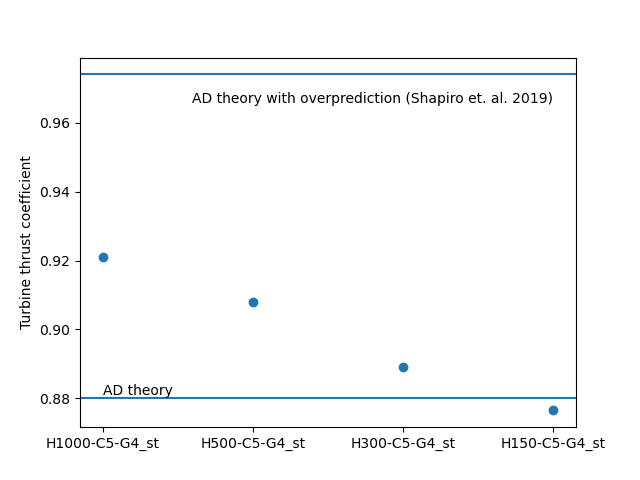
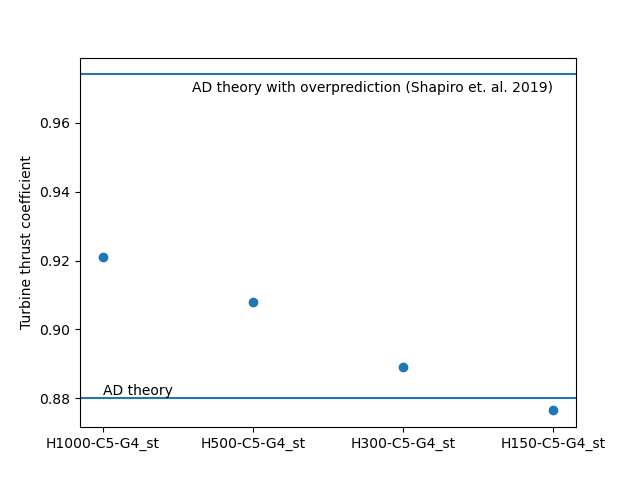
Calculate turbine power coefficient

Changed region(s): [[0.2812, 0.1562, 0.875, 0.2188]]

diff --git a/calculate_power_coefficient.py b/calculate_power_coefficient.py
@@ -1,4 +1,4 @@
-"""Calculate turbine thrust
+"""Calculate turbine power
 coefficient for large-eddy simulations
 of a single turbine
 """
@@ -8,15 +8,15 @@ import matplotlib.pyplot as plt
 import numpy as np
 import scipy.interpolate as sp
 
-#calculate thrust coefficient from actuator disc theory
+#calculate power coefficient from actuator disc theory
 ct_prime = 1.9417
-#ct_ad - thrust coefficient according to actuator disc theory
-ct_ad = 16*ct_prime / (4 + ct_prime)**2
-print(ct_ad)
+#cp_ad - power coefficient according to actuator disc theory
+cp_ad = 64*ct_prime / (4 + ct_prime)**3
+print(cp_ad)
 
-#thrust coefficient should be overpredicted due to
+#power coefficient should be overpredicted due to
 #the effect of the Gaussian filter length
-#here we calculate the overpredicted thrust coefficient 
+#here we calculate the overpredicted power coefficient 
 #of an actuator disc with ct_prime = 1.9417 according to
 #Shapiro et. al. 2019
 
@@ -30,12 +30,12 @@ M = M / np.sqrt(3*np.pi)
 M = M * ct_prime / 4
 M = M + 1
 M = M**(-1)
-#calculate uncorrected thrust coefficient
-ct_ad_overpredict = ct_ad / (M**2)
-print(ct_ad_overpredict)
+#calculate uncorrected power coefficient
+cp_ad_overpredict = cp_ad / (M**3)
+print(cp_ad_overpredict)
 
-#array to store thrust coefficient from LES
-ct_les = np.zeros(4)
+#array to store power coefficient from LES
+cp_les = np.zeros(4)
 
 #loop over different boundary layer heights
 for i, h_bl in enumerate([1000, 500, 300, 150]):
@@ -66,7 +66,7 @@ for i, h_bl in enumerate([1000, 500, 300, 150]):
     speed = np.sqrt(u_profile**2+v_profile**2)
     #interpolate to find velocity at hub height
     f_speed = sp.interp1d(1000*z[:60], speed, fill_value="extrapolate")
-    #reference velocity for thrust coefficient
+    #reference velocity for power coefficient
     u_infty = f_speed(119)
 
     #plot vertical velocity profile to check calculation of u_infty
@@ -78,48 +78,48 @@ for i, h_bl in enumerate([1000, 500, 300, 150]):
     plt.savefig(f'plots/{case_id}/u_infty.png')
     plt.close()
 
-    #calculate turbine force
+    #calculate turbine power
     #change file path below!
     aux = h5py.File(f'/mnt/d/LES_data/{case_id}/aux_files.h5', 'r')
-    force = aux['force']
+    power = aux['power']
     time = aux['time']
-    #average turbine force over last 1.5hrs of simulation
-    force_ave = np.mean(force[time[:]>75600,:])
+    #average turbine power over last 1.5hrs of simulation
+    power_ave = np.mean(power[time[:]>75600,:])
 
-    #calculate measured thrust coefficient from LES
+    #calculate measured power coefficient from LES
     turbine_area = (np.pi*198**2)/4
-    ct_les[i] = force_ave / (0.5*turbine_area*u_infty**2)
+    cp_les[i] = power_ave / (0.5*turbine_area*u_infty**3)
 
-    #check convergence of turbine force
-    plt.plot(time[:], force[:])
+    #check convergence of turbine power
+    plt.plot(time[:], power[:])
     plt.xlabel('Time (s)')
-    plt.ylabel('Turbine force per unit density (m^4/s^2)')
+    plt.ylabel('Turbine power per unit density (m^5/s^3)')
     plt.axvline(75600)
-    plt.savefig(f'plots/{case_id}/turbine_force.png')
+    plt.savefig(f'plots/{case_id}/turbine_power.png')
     plt.close()
 
-    #vary averaging period for turbine force
+    #vary averaging period for turbine power
     #array to store results
-    force_ave_period = np.zeros(1800)
+    power_ave_period = np.zeros(1800)
     for j in range(1800):
         time_indices = [x for x in range(-(j+1),0)]
-        force_ave_period[j] = np.mean(force[time_indices,:])
-    #plot turbine force against averaging period
-    plt.plot(5*np.arange(1800)+5, force_ave_period)
+        power_ave_period[j] = np.mean(power[time_indices,:])
+    #plot turbine power against averaging period
+    plt.plot(5*np.arange(1800)+5, power_ave_period)
     plt.axvline(5400)
     plt.xlabel('Averaging period (s)')
-    plt.ylabel('Turbine force per unit density (m^4/s^2)')
-    plt.savefig(f'plots/{case_id}/turbine_force_averaging_period.png')
+    plt.ylabel('Turbine power per unit density (m^5/s^3)')
+    plt.savefig(f'plots/{case_id}/turbine_power_averaging_period.png')
     plt.close()
 
 
-#plot thrust coefficients for the different cases
-plt.scatter(range(4), ct_les)
-plt.axhline(ct_ad)
-plt.axhline(ct_ad_overpredict)
+#plot power coefficients for the different cases
+plt.scatter(range(4), cp_les)
+plt.axhline(cp_ad)
+plt.axhline(cp_ad_overpredict)
 plt.xticks(range(4), ['H1000-C5-G4_st', 'H500-C5-G4_st', 'H300-C5-G4_st', 'H150-C5-G4_st'])
-plt.ylabel('Turbine thrust coefficient')
-plt.text(0, ct_ad, 'AD theory', va='bottom', ha='left')
-plt.text(3, ct_ad_overpredict-0.002, 'AD theory with overprediction (Shapiro et. al. 2019)', va='top', ha='right')
-plt.savefig('plots/thrust_ceofficient.png')
+plt.ylabel('Turbine power coefficient')
+plt.text(0, cp_ad, 'AD theory', va='bottom', ha='left')
+plt.text(3, cp_ad_overpredict-0.002, 'AD theory with overprediction (Shapiro et. al. 2019)', va='top', ha='right')
+plt.savefig('plots/power_ceofficient.png')
 
